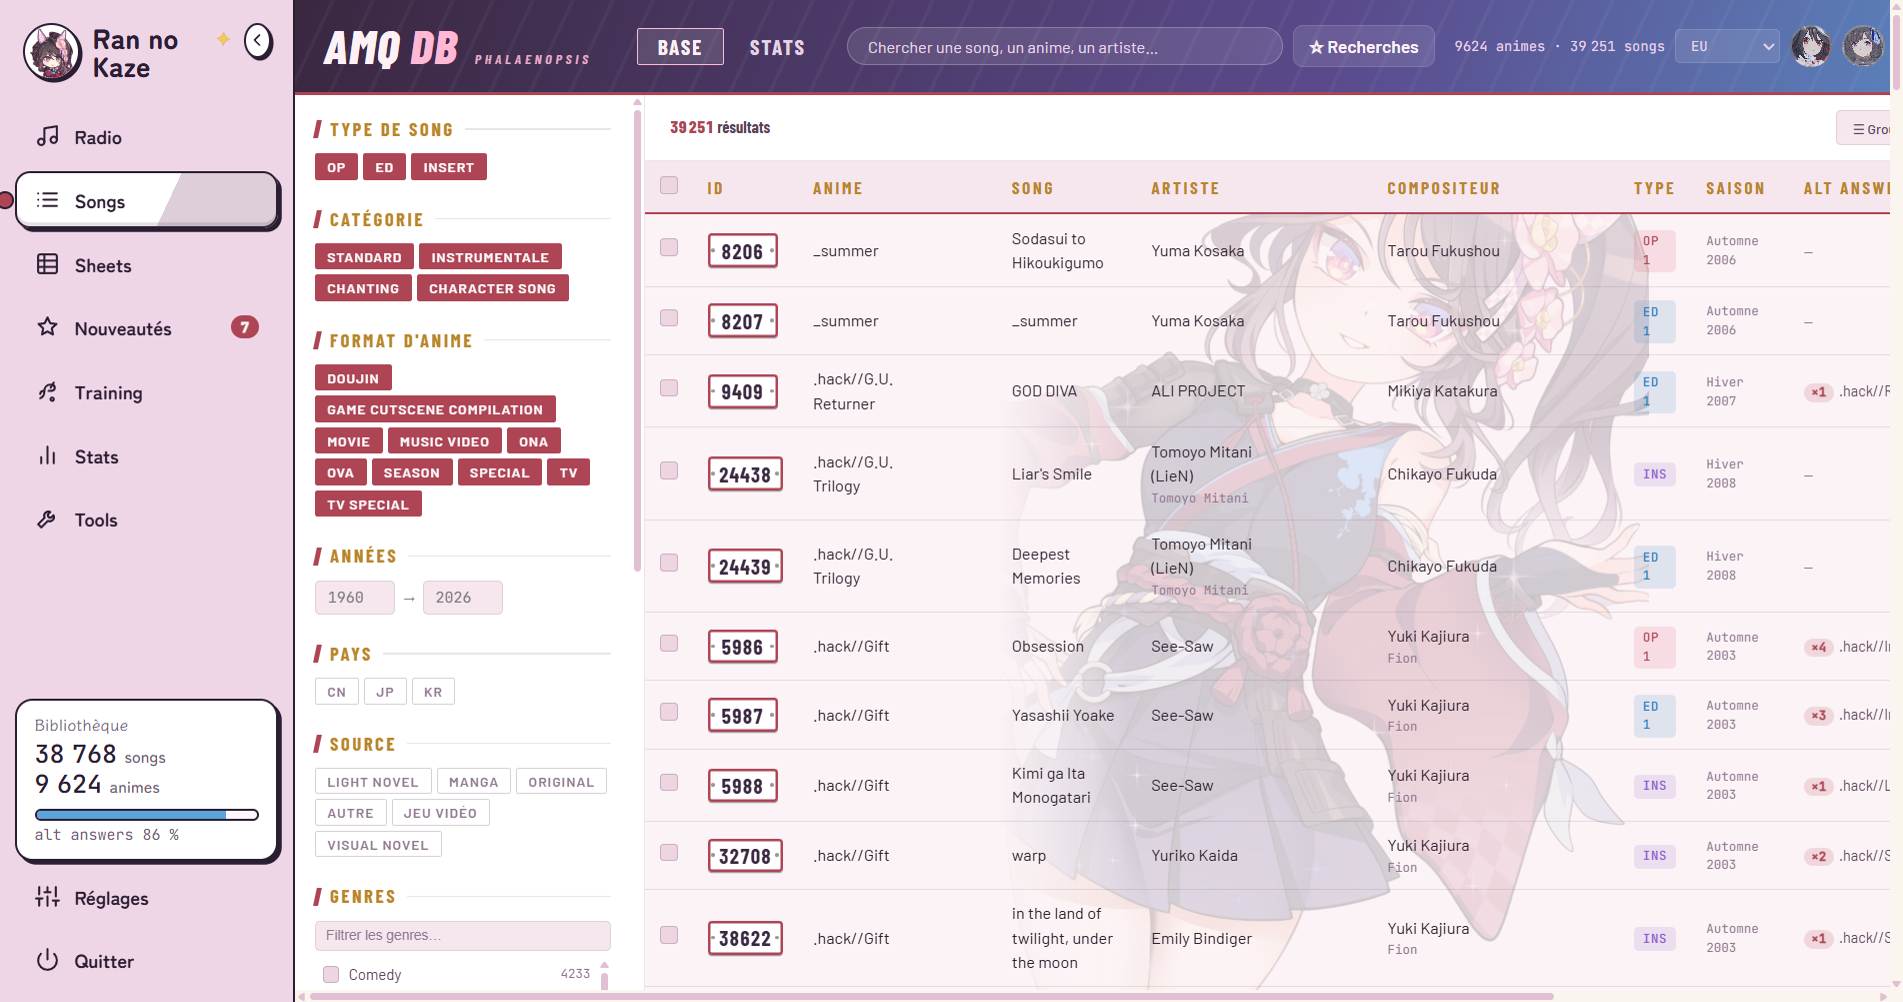
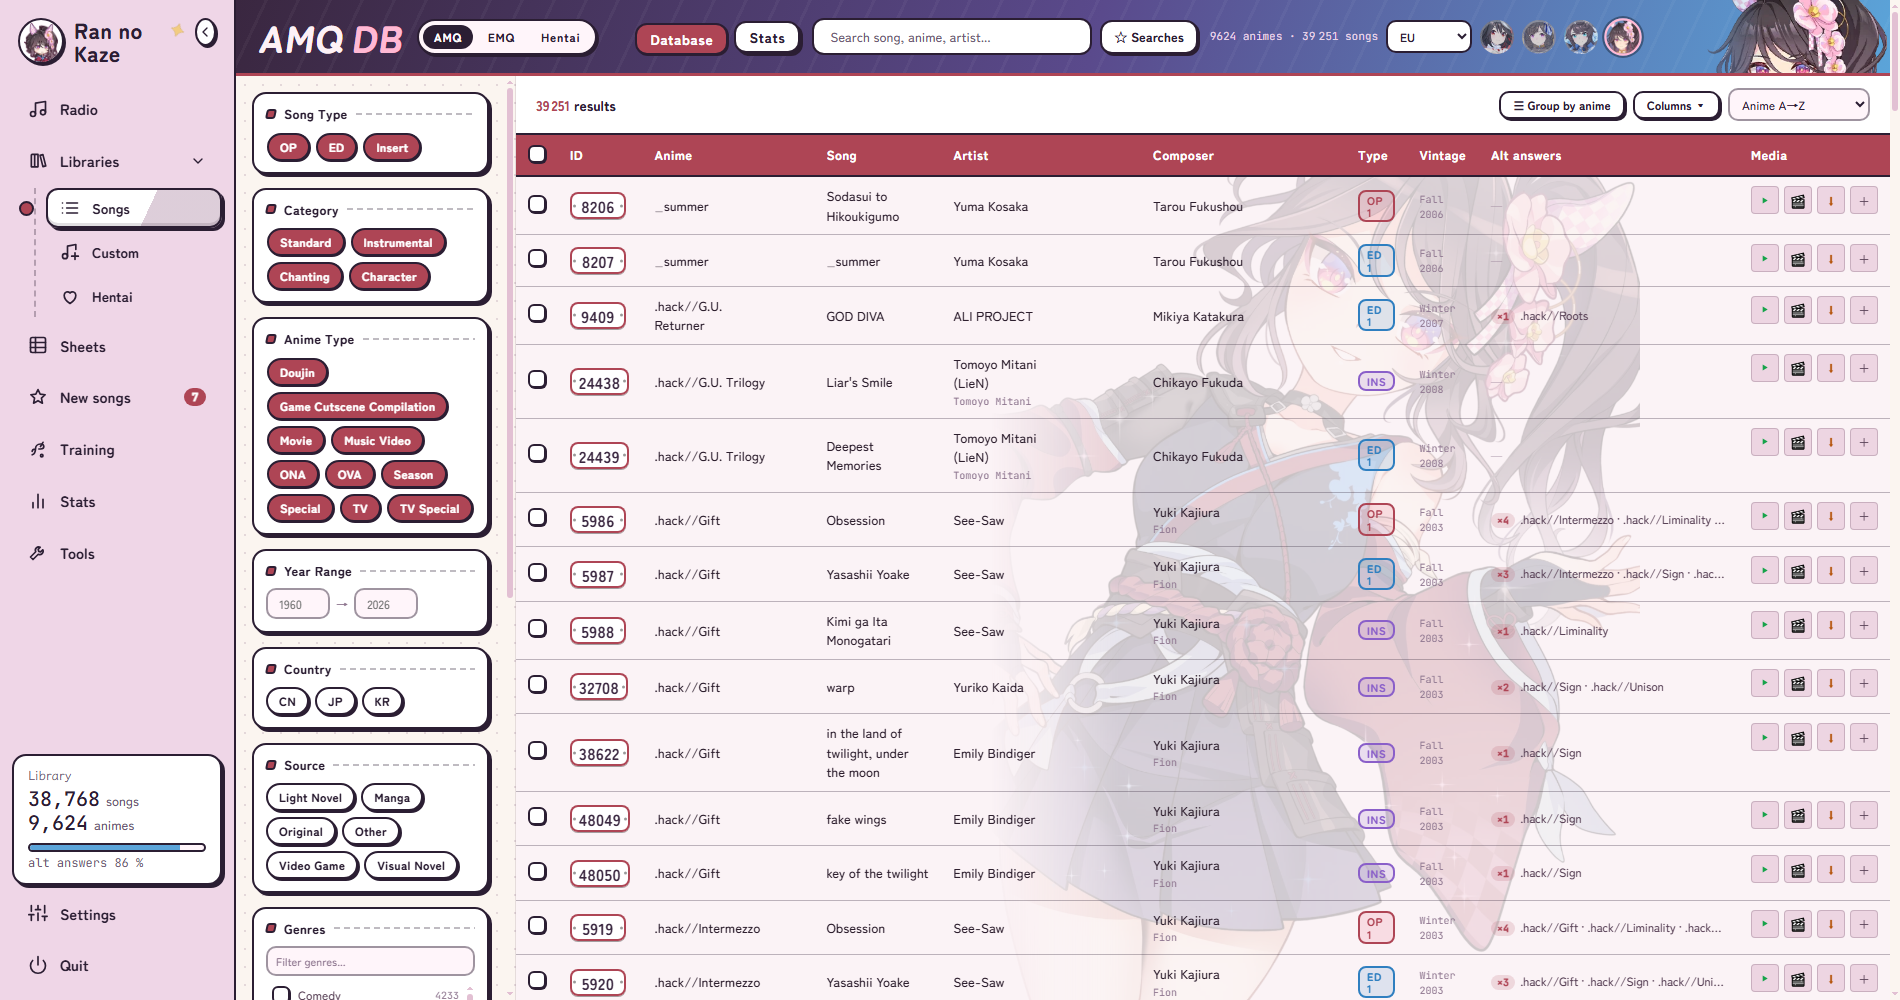
README à jour pour la version 1.0.0 : clé d'accès, nouveautés, données envoyées ; captures de la radio, Songs, Training, Sheets et Stats

diff --git a/README.md b/README.md
@@ -5,83 +5,86 @@
 <h1 align="center">Ran no Kaze</h1>
 
 <p align="center">
-  La radio, la base de données et le carnet d'entraînement des musiques d'<b>AnimeMusicQuiz</b>, réunis dans une app Windows.<br>
-  <i>Radio, song database and training notebook for AnimeMusicQuiz songs, in one Windows app.</i>
+  A radio, a song database and a training notebook for <b>AnimeMusicQuiz</b> songs, in one Windows app.
 </p>
 
 <p align="center">
-  <a href="https://github.com/Nemesise6/Ran-no-Kaze/releases/latest"><b>⬇ Télécharger la dernière version</b></a>
+  <a href="https://github.com/Nemesise6/Ran-no-Kaze/releases/latest"><b>⬇ Download the latest version</b></a>
 </p>
 
-<!-- 📸 À AJOUTER : une grande capture de la radio en lecture (vidéo + jaquette), le plus bel écran de l'app.
-     Fichier : images/radio.png, puis décommente la ligne ci-dessous. -->
-<!-- <p align="center"><img src="images/radio.png" width="900" alt="La radio"></p> -->
+<p align="center"><img src="images/radio.png" width="900" alt="The radio"></p>
 
 ---
 
-## Ce que fait l'app
+## What the app does
 
-- **Radio** : écoute en continu les openings, endings et inserts d'AMQ, en audio ou en vidéo, avec des filtres (années, saisons, genres, artistes…), une file d'attente et le mini-lecteur toujours au premier plan.
-- **Songs** : toute la bibliothèque en tableau, avec la recherche, les filtres, les alt answers et une vue statistiques.
-- **Training** : révision espacée pour reconnaître les animes, les artistes ou les titres, un défi du jour, et ta progression dans le temps.
-- **Sheets** : tes notes et tes listes, l'import de party rankings, un sorter par duels, l'export en `.xlsx` ou vers Google Sheets.
-- **Nouveautés et Stats** : ce qui vient d'arriver dans la bibliothèque, et le tableau de bord de toute la base.
-- **4 thèmes** (Phalaenopsis, Daring Tact, Kitasan Black, Daiichi Ruby), français ou anglais, statut Discord, touches multimédia du clavier.
+- **Radio**: plays AMQ openings, endings and inserts non-stop, as audio or video, with filters (years, seasons, genres, artists, song length, your MAL or AniList list…), a queue and an always-on-top mini player.
+- **Songs**: the whole library as a table, with search, filters, alt answers and a statistics view.
+- **Training**: spaced repetition to learn to recognise anime, artists or song titles, a daily challenge, and your progress over time. It can stick to the shows of your MAL or AniList list (your VNDB list for visual novels).
+- **Sheets**: your ratings (one built-in sheet per library) and your own lists, party ranking import, a duel-based sorter, export to `.xlsx` or Google Sheets.
+- **Custom**: your own songs that aren't on AMQ (Google Drive, YouTube, catbox or direct links), with your rating, usable in your sheets, and shareable with friends as a file or a text to paste.
+- **New songs and Stats**: what just arrived in the library, and a dashboard for each library (AMQ, EMQ, Hentai) or all of them together.
+- **Optional libraries (18+)**: **EMQ** (Eroge Music Quiz, songs from visual novels) and **Hentai** (songs from adult anime). They're unchecked by default: tick them in the installer, or later in Settings.
+- **4 themes** (Phalaenopsis, Daring Tact, Kitasan Black, Daiichi Ruby), English or French, Discord status, keyboard media keys.
 
 | Songs | Training |
 |---|---|
-| <img src="images/songs.png" alt="Page Songs"> | <img src="images/training.png" alt="Page Training"> |
+| <img src="images/songs.png" alt="Songs page"> | <img src="images/training.png" alt="Training page"> |
+| **Sheets** | **Stats** |
+| <img src="images/sheets.png" alt="Sheets page"> | <img src="images/stats.png" alt="Stats page"> |
 
-| Stats | Mises à jour |
-|---|---|
-| <img src="images/stats.png" alt="Page Stats"> | <img src="images/tools.png" alt="Écran Tools : mise à jour de la bibliothèque"> |
-
-<!-- 📸 IDÉES de captures à ajouter dans images/ :
-     - sheets.png : une sheet remplie avec des notes (la page est vide sur une installation neuve)
-     - themes.png : les 4 thèmes côte à côte (Réglages > Thème)
-     - mini.png   : le mini-lecteur posé sur le bureau
-     - gif de la radio qui enchaîne deux songs -->
+<!-- 📸 IDEAS for screenshots to add in images/:
+     - custom.png : the Custom page with a few songs
+     - themes.png : the 4 themes side by side (Settings > Theme)
+     - mini.png   : the mini player on the desktop
+     - a gif of the radio going from one song to the next -->
 
 ## Installation
 
-1. Télécharge **`Ran-no-Kaze-Setup-x.y.z.exe`** dans la [dernière release](https://github.com/Nemesise6/Ran-no-Kaze/releases/latest), dans la partie *Assets*.
-2. Lance-le. Windows va sûrement afficher **« Windows a protégé votre ordinateur »** : l'app n'est pas signée par un éditeur payant. Clique sur **Informations complémentaires**, puis sur **Exécuter quand même**.
-3. Choisis le dossier d'installation, puis lance **Ran no Kaze**.
+1. Download **`Ran-no-Kaze-Setup-x.y.z.exe`** from the [latest release](https://github.com/Nemesise6/Ran-no-Kaze/releases/latest), in the *Assets* section.
+2. Run it. Windows will probably show **"Windows protected your PC"**: the app isn't signed by a paid publisher. Click **More info**, then **Run anyway**.
+3. Pick the install folder, choose the **optional libraries** (EMQ, Hentai), then launch **Ran no Kaze**.
+4. On first launch, a window asks for your **access key** (`RNK-XXXXX-XXXXX-XXXXX`): paste it. You can also enter it later in **Settings › Libraries**.
 
-Au premier lancement, la bibliothèque (environ 9 Mo) se télécharge et s'installe toute seule. Il faut une connexion internet. Ensuite la radio, Songs et Training sont prêts.
+Once the key is accepted, the libraries download and install on their own (about 9 MB for AMQ, 14 MB more for EMQ). You need an internet connection. Then the radio, Songs and Training are ready.
 
-**Configuration requise :** Windows 10 ou 11 en 64 bits, et une connexion internet pour écouter les musiques.
+**Requirements:** Windows 10 or 11, 64-bit, and an internet connection to play the songs.
 
-> ⚠ Ne télécharge pas le fichier `library-….rnk` de la release « library » : ce n'est pas l'app. C'est la bibliothèque, que l'app récupère toute seule.
+## Updates
 
-## Mises à jour
+Nothing to do on your side:
 
-Tout se fait sans rien faire de ton côté :
+- **The libraries** (new songs, alt answers…): the app checks at launch and then every 6 hours. A Windows notification tells you when a new version is installed. You can also check by hand in **Settings › Libraries**.
+- **The app**: new versions download in the background and install when you quit the app.
 
-- **La bibliothèque** (nouvelles songs, alt answers…) : l'app vérifie au lancement puis toutes les 6 heures. Une notification Windows te prévient quand une nouvelle version est installée. Tu peux aussi lancer la vérification à la main dans **Tools**, et la couper dans **Réglages › Automatismes**.
-- **L'app** : les nouvelles versions se téléchargent en arrière-plan et s'installent quand tu quittes l'app.
+## Your data
 
-## Tes données
+- Everything stays **on your computer**: your ratings, sheets, training, comments and settings. There's no account and no usage statistics.
+- What leaves your computer: your **access key** and a random ID for your PC when the app downloads the libraries, the username you type when you load a MAL, AniList or VNDB list (sent to that site), and your Discord status if Discord is open (it can be turned off in Settings).
+- A library update **never touches** your data. A backup of your database is made before each update, and the last 5 are kept.
+- **Settings › Data** shows where your database is and lets you copy it at any time.
+- To take your ratings elsewhere: export a sheet (`.xlsx`, or a copy for Google Sheets).
 
-- Tout reste **sur ton ordinateur** : tes notes, tes sheets, ton training, tes commentaires et tes réglages. Rien n'est envoyé nulle part, il n'y a ni compte ni statistiques d'usage.
-- Une mise à jour de la bibliothèque **ne touche jamais** à tes données. Une sauvegarde de ta base est faite avant chaque mise à jour, et les 5 dernières sont gardées.
-- **Réglages › Données** montre où se trouve ta base et permet d'en faire une copie à tout moment.
-- Pour récupérer tes notes ailleurs : **Tools › Exporter mes notes** (CSV), ou depuis une sheet (`.xlsx`, copie pour Google Sheets).
+## FAQ
 
-## Questions fréquentes
+**The radio doesn't play anything.**
+Check your internet connection: songs are streamed live from AMQ's servers. In the radio, open *Settings* and pick the server closest to you (EU, NA East or NA West).
 
-**La radio ne lit rien.**
-Vérifie ta connexion internet : les musiques sont lues en direct depuis les serveurs d'AMQ. Dans la radio, ouvre *Réglages* et choisis le serveur le plus proche de chez toi (EU, NA East ou NA West).
+**My antivirus blocks the installer.**
+It's the same issue as the SmartScreen warning: the app isn't signed. Only download the installer from this releases page.
 
-**L'antivirus bloque l'installeur.**
-C'est le même problème que l'avertissement SmartScreen : l'app n'est pas signée. Tu peux télécharger l'installeur uniquement depuis cette page de releases.
+**Where do I get an access key?**
+Ask the author of the app. Each key is personal: it gets tied to the first PC that uses it. If you change PCs, ask for your key to be reset.
 
-**Comment désinstaller ?**
-Paramètres Windows › Applications › Ran no Kaze › Désinstaller. Ta base n'est pas supprimée : pour la retrouver ou l'effacer, ouvre son dossier avant de désinstaller avec **Réglages › Données › Ouvrir le dossier**.
+**How do I add or remove EMQ or Hentai?**
+**Settings › Libraries › Extra libraries.** Ticking one downloads it, unticking removes its songs from your database.
 
-**J'ai trouvé un bug ou j'ai une idée.**
-Ouvre une [issue](https://github.com/Nemesise6/Ran-no-Kaze/issues), avec une capture si possible.
+**How do I uninstall?**
+Windows Settings › Apps › Ran no Kaze › Uninstall. Your database isn't deleted: to find it or delete it, open its folder before uninstalling with **Settings › Data › Open folder**.
 
-## À propos
+**I found a bug or I have an idea.**
+Open an [issue](https://github.com/Nemesise6/Ran-no-Kaze/issues), with a screenshot if you can.
 
-Ran no Kaze est un projet de fan, gratuit et non commercial. Il n'est **ni affilié ni approuvé** par AnimeMusicQuiz, ni par Cygames (*Uma Musume Pretty Derby*). Les musiques, vidéos et noms appartiennent à leurs ayants droit, et les illustrations des thèmes à Cygames. Le code source n'est pas publié : ce dépôt ne sert qu'à distribuer l'app et ses mises à jour.
+## About
+
+Ran no Kaze is a free, non-commercial fan project. It is **not affiliated with or endorsed by** AnimeMusicQuiz, Eroge Music Quiz or Cygames (*Uma Musume Pretty Derby*). Songs, videos and names belong to their rights holders, and the theme artwork to Cygames. The source code isn't published: this repository only distributes the app and its updates.
